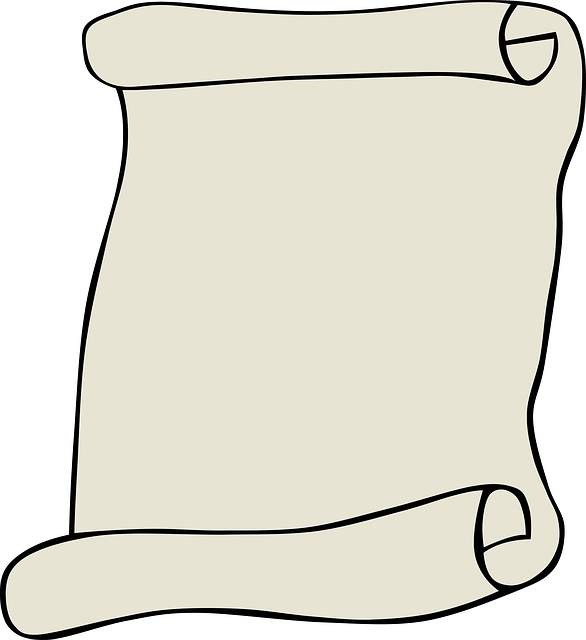
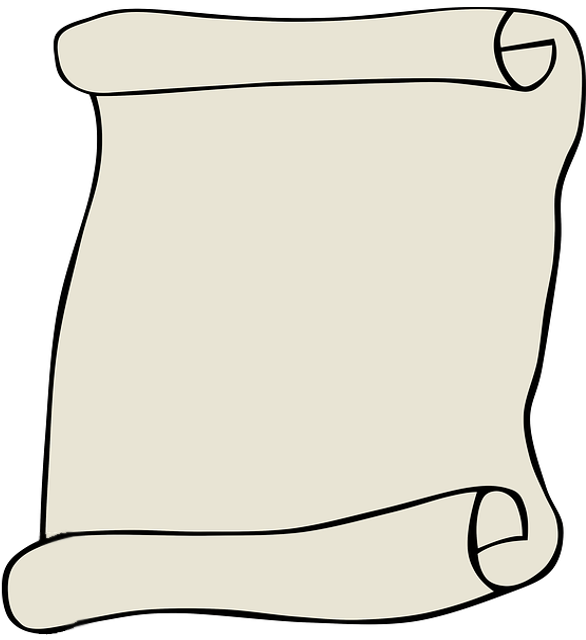
modif de style

diff --git a/web/css/style.css b/web/css/style.css
@@ -28,7 +28,7 @@ html {
 }
 
 
-.btn {
+.formbtn {
     width: 185px; float: right; padding: 10px 15px; margin: 0 15px 0 0;
     -moz-box-shadow: 0px 0px 5px #999;-webkit-box-shadow: 0px 0px 5px #999;
     border: 1px solid #556f8c;
@@ -39,9 +39,40 @@ html {
     text-decoration:none;
 }
 
+.btn {
+	-moz-box-shadow:inset 0px 1px 0px 0px #caefab;
+	-webkit-box-shadow:inset 0px 1px 0px 0px #caefab;
+	box-shadow:inset 0px 1px 0px 0px #caefab;
+	background:-webkit-gradient( linear, left top, left bottom, color-stop(0.05, #77d42a), color-stop(1, #5cb811) );
+	background:-moz-linear-gradient( center top, #77d42a 5%, #5cb811 100% );
+	filter:progid:DXImageTransform.Microsoft.gradient(startColorstr='#77d42a', endColorstr='#5cb811');
+	background-color:#77d42a;
+	-moz-border-radius:6px;
+	-webkit-border-radius:6px;
+	border-radius:6px;
+	border:1px solid #268a16;
+	display:inline-block;
+	color:#b008b5;
+	font-family:arial;
+	font-size:15px;
+	font-weight:bold;
+	padding:6px 24px;
+	text-decoration:none;
+	text-shadow:1px 1px 0px #aade7c;
+}.btn:hover {
+	background:-webkit-gradient( linear, left top, left bottom, color-stop(0.05, #5cb811), color-stop(1, #77d42a) );
+	background:-moz-linear-gradient( center top, #5cb811 5%, #77d42a 100% );
+	filter:progid:DXImageTransform.Microsoft.gradient(startColorstr='#5cb811', endColorstr='#77d42a');
+	background-color:#5cb811;
+}.btn:active {
+	position:relative;
+	top:1px;
+}
+
+
 .parchemin {
     /*position: absolute;*/
-    background-image: url("../images/parchemin2.png");
+    background-image: url("../images/parchemin1.png");
     background-size: 100% 100%;
     background-repeat: no-repeat;
     min-width: 640px;
@@ -53,5 +84,47 @@ html {
 }
 
 .insideparchemin {
-	padding: 150px 200px 150px 200px;
+	padding: 100px 150px 200px 150px;
 }
+
+#bottleChoice {
+    background-image: url("../images/bottle1.png");
+    background-repeat: no-repeat;
+    height: 120px;
+    width: 120px;
+    background-size: 100% , auto;
+    margin-top: 20px;
+}
+
+label {
+        float: left; clear: left; width: 150px;
+        padding: 3px 3px 3px 3px; margin: 3px 3px 3px 3px;
+        text-align: right;
+        vertical-align:middle;
+        display:table-cell;
+        line-height: 35px;
+        height: 35px;
+        display: block;
+}
+
+input {
+        width: 260px; height: 35px;
+        padding: 3px 3px 3px 3px; margin: 3px 3px 3px 3px;
+        border-radius: 5px; -moz-border-radius: 5px; -webkit-border-radius: 5px;
+        -moz-box-shadow: 0px 1px 0px;-webkit-box-shadow: 0px 1px 0px;
+}
+
+textarea {
+        min-width: 260px; /*width:60%;*/ height: 140px;
+        padding: 3px 3px 3px 3px; margin: 3px 3px 3px 3px;
+        border-radius: 5px; -moz-border-radius: 5px; -webkit-border-radius: 5px;
+        -moz-box-shadow: 0px 1px 0px;-webkit-box-shadow: 0px 1px 0px;
+}
+
+select {
+        width: 260px; height: 35px;
+        padding: 3px 3px 3px 3px; margin: 3px 3px 3px 3px;
+        border-radius: 5px; -moz-border-radius: 5px; -webkit-border-radius: 5px;
+        -moz-box-shadow: 0px 1px 0px;-webkit-box-shadow: 0px 1px 0px;
+}
+

diff --git a/src/Koala/MiabBundle/Form/BottleType.php b/src/Koala/MiabBundle/Form/BottleType.php
@@ -12,13 +12,18 @@ class BottleType extends AbstractType
     {
         $builder
             ->add('message', 'textarea', array( 'label' => 'Message '))
-            ->add('periodicity', 'integer', array('label' => 'Next apparition in'))
+            ->add('periodicity', 'integer', array('label' => 'Next apparition in', 'data'=>'30'))
             ->add('visibilite', 'choice', array(
-    'choices' => array('0' => 'Public', '1' => 'Private')))
-            ->add('bottleChoice')
+                  'label'=>'Visibility', 
+                  'choices' => array('0' => 'Public', '1' => 'Private')))
+            ->add('bottleChoice', 'choice', array(
+                  'label'=>'Chose a bottle',
+                  'choices' => array('1'=>'Classic', '2'=>'Psy', '3'=>'Purple', '4'=>'Wine', '5'=>'Poison'),
+                  'attr' => array("onchange" => "javascript:changeBottle(this.value);")))
             ->add('parcheminChoice', 'choice', array(
-    'choices' => array('1' => 'mar', '2' => 'gr', '3' => 'tr'), 
-             'attr' => array("onchange" =>"javascript:changeParchemin(this.value);")))
+                  'label' => 'Chose a parchment',
+                  'choices' => array('1' => 'Classic brown', '2' => 'Classic grey', '3' => 'Vertical grey'), 
+                  'attr' => array("onchange" =>"javascript:changeParchemin(this.value);")))
         ;
     }
 
